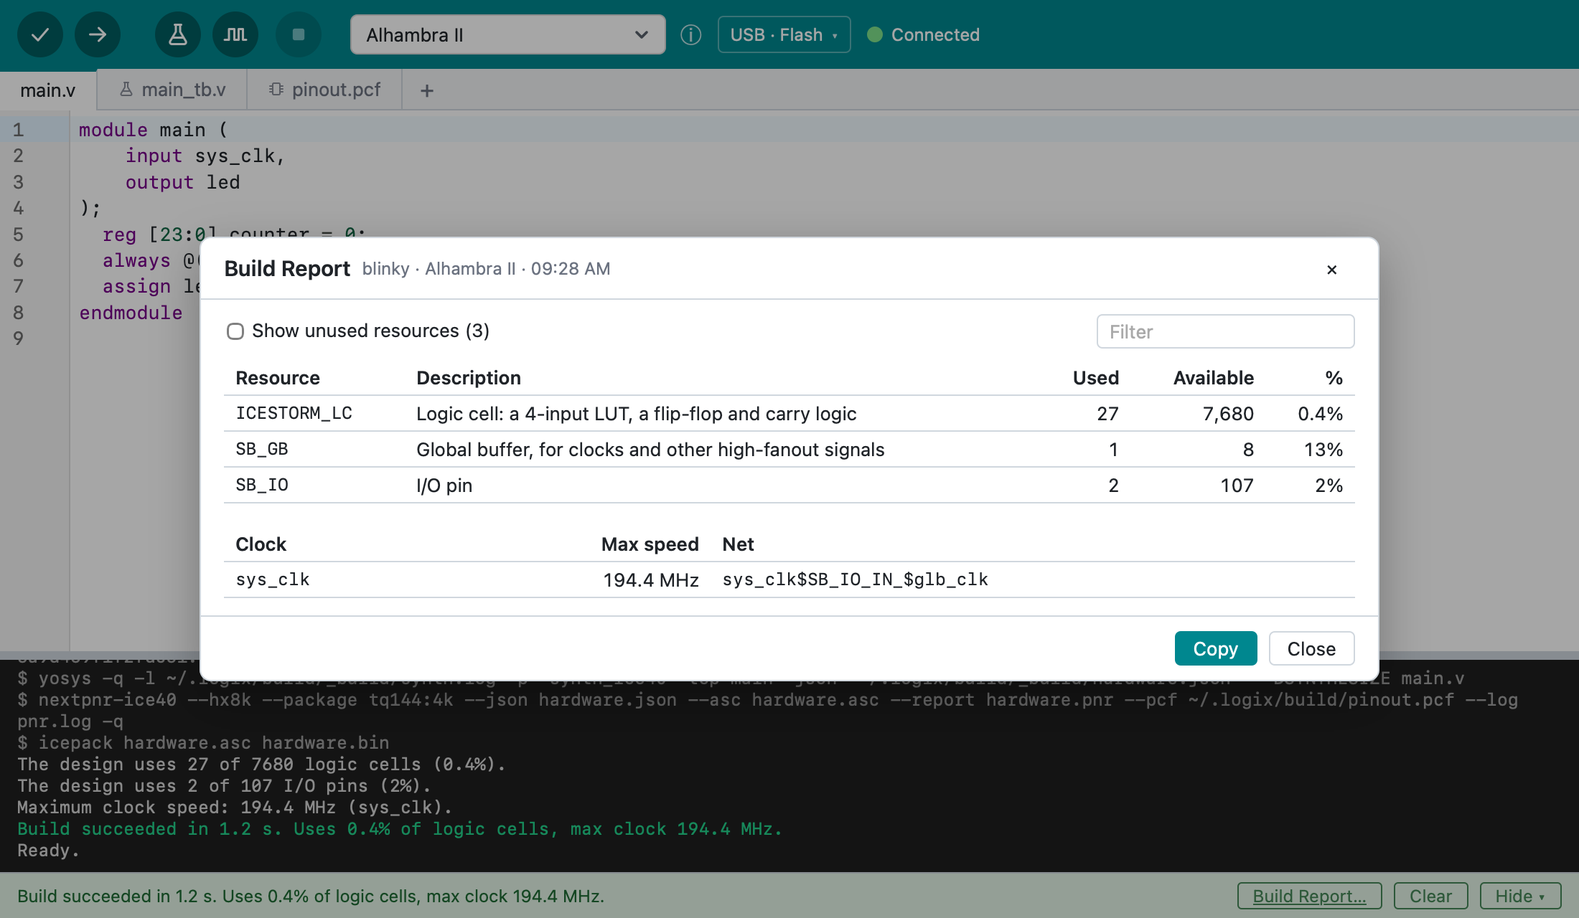
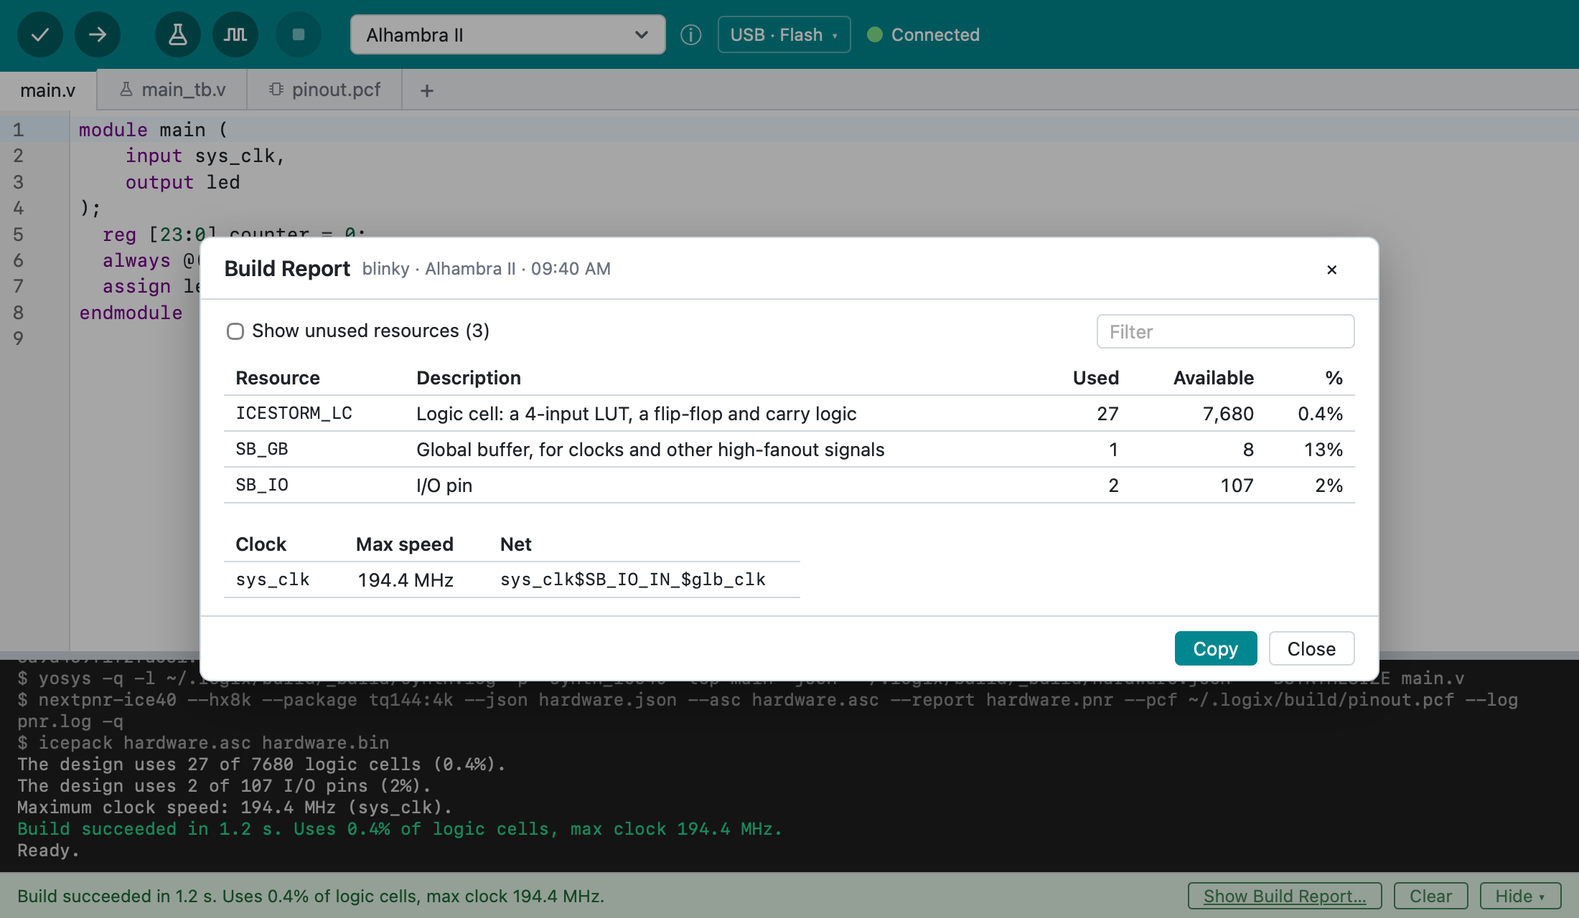
Show Build Report…: last attempt only, unused rows plain, 0% empty
A failed or stopped Verify or Upload clears the report, so the window
never shows an older build than the last attempt. The menu item and the
status bar link are "Show Build Report…". Unused resources aren't greyed
out and their share is empty; the clock table is only as wide as its
columns.

Changed region(s): [[0.3091, 0.5938, 0.6182, 0.6562], [0.2164, 0.5938, 0.2782, 0.6562], [0.7418, 0.9688, 0.8036, 1.0]]

diff --git a/ui/e2e/app.e2e.ts b/ui/e2e/app.e2e.ts
@@ -182,14 +182,14 @@ test("Build Report shows the used resources, all on request, and copies them", a
   const fake = () => page.evaluate(() => (window as unknown as { __fake: Fake }).__fake);
   await start(page);
   await chooseBoard(page);
-  // No build yet: Build Report… is greyed out.
+  // No build yet: Show Build Report… is greyed out.
   await expect.poll(async () => (await fake()).menuState?.buildReport).toBe(false);
   await page.getByTitle(/^Verify/).click();
   await expect(status(page)).toContainText("Uses 0.4% of logic cells, max clock 194.4 MHz.");
   // The output has the engine's report, as it words it.
   await expect(output(page)).toContainText("The design uses 2 of 107 I/O pins (2%).");
   await expect.poll(async () => (await fake()).menuState?.buildReport).toBe(true);
-  await page.getByRole("button", { name: "Build Report…" }).click();
+  await page.getByRole("button", { name: "Show Build Report…" }).click();
   const dialog = page.getByRole("dialog", { name: "Build Report" });
   const rows = dialog.getByRole("table", { name: "Resources" }).locator("tbody tr");
   // The toolchain's names, with the engine's descriptions; used ones only.
@@ -204,12 +204,21 @@ test("Build Report shows the used resources, all on request, and copies them", a
   await expect(rows.first()).toContainText("ICESTORM_RAM");
   await dialog.getByRole("button", { name: "Copy" }).click();
   await expect(dialog).toContainText("Copied.");
-  expect((await fake()).copiedText).toMatch(/^Build Report: .* · Alhambra II · .*\n\nResource +Description.*\nICESTORM_RAM +Block RAM, 4 Kbit +0 +32 +0%\n/s);
+  expect((await fake()).copiedText).toMatch(/^Build Report: .* · Alhambra II · .*\n\nResource +Description.*\nICESTORM_RAM +Block RAM, 4 Kbit +0 +32\n/s);
   await page.keyboard.press("Escape");
   await expect(dialog).toHaveCount(0);
   // Kept until the project changes; also from the menu, with unused shown.
   await menu(page, "build-report");
   await expect(dialog.getByLabel(/Show unused resources/)).toBeChecked();
+  // Unused rows have no share, rather than "0%".
+  await expect(rows.filter({ hasText: "ICESTORM_RAM" }).locator("td").last()).toHaveText("");
+  await page.keyboard.press("Escape");
+  // A failed build has no report: the last successful one's goes.
+  await typeAtStart(page, "oops\n");
+  await page.getByTitle(/^Verify/).click();
+  await expect(status(page)).toHaveText("Build failed.");
+  await expect(page.getByRole("button", { name: "Show Build Report…" })).toHaveCount(0);
+  await expect.poll(async () => (await fake()).menuState?.buildReport).toBe(false);
 });
 
 test("Show Project Folder on a project never saved offers Save As…, then shows the folder", async ({

diff --git a/ui/src/App.svelte b/ui/src/App.svelte
@@ -601,7 +601,7 @@
   let taskStep = $state<{ message: string; percent: number | null } | null>(
     null,
   );
-  /** The open project's last build report (Verify or Upload), for Build Report…. */
+  /** The open project's last build report (Verify or Upload), for Show Build Report…. */
   let buildReport = $state<{ report: BuildReport; title: string } | null>(null);
   let buildReportOpen = $state(false);
   /** The Build Report window's "Show unused resources", kept between builds. */
@@ -1094,8 +1094,15 @@
       taskStep = null;
       if (project !== p) return; // Another project was opened meanwhile.
       if (task === "test") log("", ...testbenchLines(outcome));
-      if (outcome.ok && outcome.report) {
-        if (outcome.report.text) log("", ...outcome.report.text.split("\n"));
+      // The report is always the last build's: a failed or stopped build
+      // has none, so the previous one's goes (Upload's report is its
+      // build's, even when programming fails).
+      if (task === "build" || task === "upload") {
+        buildReport = null;
+        buildReportOpen = false;
+      }
+      if (outcome.report) {
+        if (outcome.ok && outcome.report.text) log("", ...outcome.report.text.split("\n"));
         const when = new Date().toLocaleTimeString([], { hour: "2-digit", minute: "2-digit" });
         const boardName = boards.find((b) => b.id === board)?.description ?? board;
         buildReport = { report: outcome.report, title: `${p.name} · ${boardName} · ${when}` };
@@ -2338,7 +2345,7 @@
         {/if}
         <span class="status-text" role="status">{statusText}</span>
         {#if status?.report && buildReport && !isBusy && !activity}
-          <button class="status-link" onclick={() => (buildReportOpen = true)}>Build Report…</button>
+          <button class="status-link" onclick={() => (buildReportOpen = true)}>Show Build Report…</button>
         {/if}
         {#if running && taskStep && !activity}
           <span class="setup-detail"

diff --git a/ui/src/lib/BuildReport.svelte b/ui/src/lib/BuildReport.svelte
@@ -1,5 +1,5 @@
 <!--
-  Project > Build Report… (also the status bar's Build Report link after
+  Project > Show Build Report… (also the status bar's Build Report link after
   Verify or Upload): the last build's resources and clocks, as Logix
   Engine's `build` gives them (its recipe "Show problems in the editor",
   docs/tool-api.md). Each resource by the toolchain's own name, which
@@ -94,7 +94,7 @@
         </thead>
         <tbody>
           {#each rows as r (r.name)}
-            <tr class:unused={r.used === 0}>
+            <tr>
               <td class="name">{r.name}</td>
               <td>{r.description ?? ""}</td>
               <td class="num">{r.used.toLocaleString()}</td>
@@ -228,7 +228,12 @@
     user-select: text;
   }
   .clocks {
+    width: auto;
     margin-top: 16px;
+  }
+  .clocks td,
+  .clocks th {
+    padding-right: 24px;
   }
   th,
   td {
@@ -253,9 +258,6 @@
     font-family: ui-monospace, Menlo, Consolas, monospace;
     font-size: 12px;
     white-space: nowrap;
-  }
-  .unused {
-    color: var(--muted);
   }
   .invalid {
     color: var(--muted);

diff --git a/ui/src/lib/buildReport.ts b/ui/src/lib/buildReport.ts
@@ -33,11 +33,13 @@ export function unusedCount(report: BuildReport): number {
 }
 
 /**
- * A share for the table: "n/a" when the engine found nextpnr's numbers
- * invalid, "<0.1%" for something used but less than that, one decimal under
- * 1%, whole numbers otherwise.
+ * A share for the table: empty for an unused resource (so the used ones
+ * stand out), "n/a" when the engine found nextpnr's numbers invalid,
+ * "<0.1%" for something used but less than that, one decimal under 1%,
+ * whole numbers otherwise.
  */
 export function percentText(r: ReportResource): string {
+  if (r.used === 0) return "";
   if (r.percent === null) return "n/a";
   if (r.used > 0 && r.percent < 0.1) return "<0.1%";
   if (r.percent > 0 && r.percent < 1) return `${r.percent.toFixed(1)}%`;

diff --git a/ui/src/lib/buildReport.test.ts b/ui/src/lib/buildReport.test.ts
@@ -35,7 +35,8 @@ describe("build report window", () => {
     const r = (used: number, percent: number | null) => ({
       name: "X", description: null, used, available: 100, percent,
     });
-    expect(percentText(r(0, 0))).toBe("0%");
+    expect(percentText(r(0, 0))).toBe("");
+    expect(percentText(r(0, null))).toBe("");
     expect(percentText(r(1, 0))).toBe("<0.1%");
     expect(percentText(r(1, 0.4))).toBe("0.4%");
     expect(percentText(r(1, 33.3))).toBe("33%");

diff --git a/ui/e2e/docs.shots.ts b/ui/e2e/docs.shots.ts
@@ -72,7 +72,7 @@ test("main window after Verify", async ({ page }) => {
 test("the build report", async ({ page }) => {
   await startWithBoard(page);
   await verify(page, /^Build succeeded/);
-  await page.getByRole("button", { name: "Build Report…" }).click();
+  await page.getByRole("button", { name: "Show Build Report…" }).click();
   await expect(page.getByRole("dialog", { name: "Build Report" })).toBeVisible();
   await shot(page, "build-report");
 });

diff --git a/ui/src/lib/backend.ts b/ui/src/lib/backend.ts
@@ -409,7 +409,7 @@ export interface MenuState {
   simulate: boolean;
   /** The open tab is a testbench (the editor menu's Run This Test, Simulate). */
   testbenchOpen: boolean;
-  /** The project has a build report (Build Report…). */
+  /** The project has a build report (Show Build Report…). */
   buildReport: boolean;
   /** One Tools submenu per dimension of the board's variants. */
   variantMenus: VariantMenu[];

diff --git a/src-tauri/src/menu.rs b/src-tauri/src/menu.rs
@@ -31,7 +31,7 @@ pub const SIMULATE: &str = "simulate";
 pub const SHOW_FOLDER: &str = "show-folder";
 pub const COPY_PATH: &str = "copy-path";
 pub const SHOW_DIAGRAM: &str = "show-diagram";
-/// Project > Build Report…: the last build's resources and clocks, from the
+/// Project > Show Build Report…: the last build's resources and clocks, from the
 /// engine's report (`BuildReport.svelte`).
 pub const BUILD_REPORT: &str = "build-report";
 pub const DEVICES: &str = "devices";
@@ -129,7 +129,7 @@ pub struct MenuState {
     /// This Test and Simulate (hidden otherwise, to keep it short).
     pub testbench_open: bool,
     /// The project has a build report: Verify or Upload built it since it
-    /// was opened (Build Report…).
+    /// was opened (Show Build Report…).
     #[serde(default)]
     pub build_report: bool,
     /// One Tools submenu per dimension of the current board's variants,
@@ -297,7 +297,7 @@ pub fn build<R: Runtime>(app: &AppHandle<R>) -> tauri::Result<Menu<R>> {
         .separator()
         .item(&item(SHOW_DIAGRAM, "Show Diagram", "CmdOrCtrl+Shift+D")?)
         .item(
-            &MenuItemBuilder::with_id(BUILD_REPORT, "Build Report…")
+            &MenuItemBuilder::with_id(BUILD_REPORT, "Show Build Report…")
                 .enabled(is_enabled(BUILD_REPORT, &state))
                 .build(app)?,
         )

diff --git a/CLAUDE.md b/CLAUDE.md
@@ -148,7 +148,7 @@ Don't run `npm run tauri build` locally; installers come from the GitHub workflo
 - **Opening an example** gives an unsaved project (`dir: null`) with `templateDir` set to the folder it was written to (`~/.logix/example/`, replaced by the next example) and the board set. The first save asks for a location and copies the example's other files (e.g. `main_tb.gtkw`) from `templateDir`; its project file and hidden files are skipped. UI: `ui/src/lib/ExamplesDialog.svelte`, with search and grouping in `ui/src/lib/examples.ts`.
 - **Verify / Upload** (toolbar, Cmd+R / Cmd+U, Project menu): `run_task` builds from the project's **in-memory** files (unsaved edits included) in `~/.logix/build/`. `src-tauri/src/build_dir.rs` (plain Rust, tested) fills that folder with the files and the other contents of the project folder (or example template), subfolders included (the engine builds only the files Logix lists), except nested projects (folders with a project file, `project::is_project_dir`; `CopyMode::Build`). The folder is reused for the same project (key = project folder) so `_build/` (the engine's build folder) speeds up repeated builds; another project starts from an empty folder. Every task runs on the engine (`engine::run_task`, `engine/task.rs`) with that folder as `source_folder`, `_build` as `build_folder` (it needs "build" in one of its last two names; a `logix` subfolder under it was dropped as unneeded, the user's decision), top module `main`, the project's `.v`/`.sv` files minus testbenches as `source_files` (include files are found by the engine), and the pin file as `constraint_file`: the first one of the board's kind (`Board.pin_extension`, from the engine's `get_catalog` families: `.pcf` iCE40, `.lpf` ECP5, `.cst` Gowin, `.xdc` Xilinx 7-series, any case; `build_dir::constraint_file`), else the first pin file of any kind. The engine refuses a pin file of another family's kind (each family's place-and-route tool reads only its own format and takes the format from its option, not the file name, so before this check a PCF renamed to `.lpf` built on iCE40 as if nothing were wrong); the engine says so plainly ("The pin file pinout.lpf is the wrong kind for the Alhambra II: iCE40 FPGAs use .pcf pin files."); no fix is suggested, since each family's pin file format is different and a rename is rarely all it takes (the user's decision, 2026-11-07: an engine action `rename_constraint_file` was dropped for this); the IDE shows the message, as for every engine error (before 2026-11-07 the IDE rewrote both messages with regular expressions, `friendly`). No pin file: the IDE's own error `NO_CONSTRAINT_FILE`, worded for people. A board that isn't in the engine's catalog is refused with a plain message before anything runs. Only one task runs at a time (`AppState.task`).
 - **Verify = lint + build**: for `Task::Build`, the engine's `lint` runs first (unless "Show lint warnings on Verify" is off) for warnings and clearer errors. Lint fails for warnings too, so its result never stops the build; only `build` decides success. Upload is `build` then `program_board` (not attempted if the build failed). Repeated problems (lint and build flagging the same line) are dropped by `dedup`, keeping lint's. The engine's diagnostics map one to one (`info` shows as a warning); a failed step without an located error adds its message, plus the action's description (e.g. "No Alhambra II is connected. Connect the Alhambra II by USB, then retry."), as an error without a location, and its action code goes to `TaskOutcome.action`. The console shows the engine's live output: command lines dimmed with `$`, error lines red, warnings yellow, and the message of a failed step in red (not for design errors, whose message repeats the tool's line, and not when it is the task's first error, which the closing line "Build failed: …" shows: printed both ways, it read twice, the user's report, 2026-11-07). The closing line (the status line, also the output's last line) repeats the first error only when it has no location: a located one is the tool's own line just above, so it reads "Build failed." ("The testbench failed. GTKWave shows the signals." for a failing testbench; `outcomeText`; the user's choice, 2026-11-07). A line the tool prints over (the engine's `redraw: true` in `logix/output`, such as each state of a progress bar) is shown at once and replaced in place by the same tool's next line, so progress stays on one line and updates as in a terminal (iceprog's last address line is replaced by its `done.`); any other line in between keeps it (`TaskEvent::Line`'s `tool` and `redraw`, from `Console` in `engine/task.rs`; `Redraws` in `ui/src/lib/redraw.ts`). The IDE log file gets only the lines that stay. A first version held each redraw line until the next one arrived, so the line being redrawn was never on screen. Before the engine marked redraws, the IDE guessed them by the pattern `label [bar] n%`, which missed iceprog's `addr 0x… n%` lines (hundreds of lines per upload). The engine's phases ("Synthesizing", "Placing and routing", "Writing flash" with its percentage) go to the status bar as `TaskEvent::Progress`. After success, the report is the engine's (decided 2026-11-10: the engine words it once for every frontend): the output gets `build`'s `report` as is ("The design uses 27 of 7680 logic cells (0.4%)." and "Maximum clock speed: 194.4 MHz (sys_clk).", as Arduino's "Sketch uses …"), and the status bar its `report_summary` after the IDE's own "Build succeeded in 2.4 s." The IDE keeps no FPGA family names, descriptions or wording of its own; clock names come from `clocks_summary` (Xilinx clocks get the name synthesis gave the net, such as `o100`, as in Apio, until the openxc7 tools give the signal's name).
-- **Build Report** (Project > Build Report…, and the status bar's "Build Report…" link after a build's result; the user's design, 2026-11-10): `ui/src/lib/BuildReport.svelte`, a window with the last build of the open project (kept until another project opens or it closes; title: project · board · time). A table of `build`'s `resources`: the toolchain's name first (what people search for and quote), the engine's description, used, available and `percent` ("n/a" when the engine found nextpnr's numbers invalid, `null`; "<0.1%" for something used but less), the used ones by default with "Show unused resources (n)" for the rest (most are unused on Xilinx FPGAs; kept between builds), and a filter on name and description. Then the clocks: name, maximum speed, net. Copy gives the rows shown and the clocks as text columns (`reportText` in `ui/src/lib/buildReport.ts`, with `reportRows`, `percentText`).
+- **Build Report** (Project > Show Build Report…, and the status bar's "Show Build Report…" link after a build's result; the user's design, 2026-11-10): `ui/src/lib/BuildReport.svelte`, a window with the last build of the open project (kept until another project opens or it closes; a failed or stopped Verify or Upload clears it, so the window never shows an older build than the last attempt; Upload's report is its build's, even when programming fails; title: project · board · time). A table of `build`'s `resources`: the toolchain's name first (what people search for and quote), the engine's description, used, available and `percent` (empty for an unused resource; "n/a" when the engine found nextpnr's numbers invalid, `null`; "<0.1%" for something used but less), unused rows not greyed out (the user's choice, 2026-11-10), the used ones by default with "Show unused resources (n)" for the rest (most are unused on Xilinx FPGAs; kept between builds), and a filter on name and description. Then the clocks: name, maximum speed, net. Copy gives the rows shown and the clocks as text columns (`reportText` in `ui/src/lib/buildReport.ts`, with `reportRows`, `percentText`).
 - **Run Tests / Simulate** (toolbar flask and waveform icons, Shift+Cmd+T / Option+Cmd+T, Project menu, right-click on a testbench tab): `Task::Test` runs the engine's `test` with the chosen testbench or all `*_tb.v`/`*_tb.sv` as `testbench_files` (the engine runs every testbench, each stopped at its first failure, with a 10-minute default limit); each result becomes a `TestbenchResult`, its diagnostics (`$error`, `$fatal`, assertion failure lines, at file, line and time) are marked, and an `ending` of `timeout`, `sim_time_limit` or `no_finish` adds a plain note (`ending_note`). `Task::Simulate` runs the engine's `simulate` on one testbench with `layout_file` `<testbench stem>.gtkw` next to it: the engine runs it to the end, writes a default layout there unless the user saved one (zoomed around the first failure), and starts GTKWave detached, failing or not. A failing simulation also returns its `TestbenchResult`, so the status says "The testbench failed (GTKWave shows the signals): …" (`outcomeText`). Simulate uses the open testbench tab or the project's only testbench. `run_task` only accepts project files matching `project::is_testbench`. Testbenches follow the engine's rules (report failures with `$error`, never call `$dumpfile`; see the engine's `docs/tool-api.md`, Writing testbenches). New `*_tb.v` files start from a testbench template (`starterText` in `workingProject.ts`).
 - **Auto Format** (Tools menu, Cmd+T, as in the Arduino IDE; Cmd+T was taken from Run Tests for this): formats the open Verilog/SystemVerilog file with the engine's `format` (Verible; `engine/format.rs`). `format_file` writes the text into a one-file scratch folder (`build_dir::prepare_single`, `~/.logix/format/`), formats it there, shows Verible's command line in the console, and returns the result. The editor applies it as one undoable edit (`Editor.replaceText`) and leaves the file unsaved. Messages match Arduino's: "Auto Format finished." / "No changes necessary for Auto Format." Verible's errors come back as the engine's diagnostics and are marked like build errors.
 - **Matching is the engine's** (the engine's `docs/requirements.md`, Device selection): `list_devices` gives each device an opaque, short-lived `id` and the boards it may be, each variant with a match level, `strong`, `possible` or `weak`: what the match means for the user, never its cause. The engine's criteria are internal and change without notice (the user's rule, 2026-11-05), so the IDE only shows and compares levels (`MatchLevel` in `engine/devices.rs`; unknown values count as weak) and never says why a device matched. The IDE has no USB filter logic of its own (it used to, and got the engine's rules slightly wrong, e.g. ignoring `serial_regex`). `engine/devices.rs` reads it (`UsbDevice` with `boards: [{ board, level }]`, the strongest of a board's variants, and `buildMatch`; `DeviceList` with `unreachable`, devices that need a driver or permissions, with the engine's fix).
@@ -187,7 +187,7 @@ macOS shortcuts below; elsewhere Ctrl replaces ⌘. The same as the Arduino IDE 
 - **File** ("Project" in the names says the scope; New File acts on one file): New Project (⌘N), Examples… (⇧⌘E; right below New Project so it's easy to find, as the Arduino IDE's File > Examples; the user's decision, 2026-11-10, replacing a New Project ▸ submenu), Open Project… (⌘O), Open Recent ▸ (up to 10 folders, "No Recent Projects" when empty, Clear Menu), Close Project (⌘W), New File… (⇧⌘N), Save Project (⌘S), Save Project As… (⇧⌘S), Close Window (⇧⌘W). Ids: `new`, `examples`, `open`, `close-project`, `new-file`, `save`, `save-as`; Close Window is `close`. ⌘W closes the project rather than the window: Logix has one window, so closing the document is the useful one (decided).
 - **Edit**: system Undo, Redo, Cut, Copy, Paste (needed for those shortcuts to work in the web view), Select All (⌘A, custom), Comment/Uncomment (⌘/), Go to Definition (F12).
 - **View**: Toggle Output (⌘J).
-- **Project**: Verify (⌘R), Upload (⌘U), Run Tests (⇧⌘T), Simulate (⌥⌘T), Show Diagram (⇧⌘D), Build Report… (no shortcut; greyed out until Verify or Upload built the open project), Stop (⌘.), Show Project Folder (⌥⌘K), Copy Project Folder Path.
+- **Project**: Verify (⌘R), Upload (⌘U), Run Tests (⇧⌘T), Simulate (⌥⌘T), Show Diagram (⇧⌘D), Show Build Report… (no shortcut; greyed out until Verify or Upload built the open project), Stop (⌘.), Show Project Folder (⌥⌘K), Copy Project Folder Path.
 - **Tools**: Auto Format (⌘T), Board Explorer…, Connected Devices….
 - **Help**: Logix IDE Documentation, Quick Start, Testbenches and Simulation, Troubleshooting, Keyboard Shortcuts (the docs pages), Logix IDE Website (the product page), Logix IDE on GitHub, Report a Problem (a new GitHub issue whose text asks what happened and for `logix.log`), System Info…, Show Log Folder.
 - **System Info…** (Help; the user's request, 2026-11-08): a dialog with a plain text report for bug reports and a Copy button, as the engine's recipe "Show system info" (docs/tool-api.md) says, so every frontend shows the same report: the IDE's lines (name and version, operating system with its version, the IDE's log file, the engine used: the pinned release or the local binary from `LOGIX_DEV_ENGINE_BINARY`), a blank line, then the engine's `report` from `get_engine_info`, as is, fetched when the dialog opens (during setup: "not running"). `src-tauri/src/system_info.rs` (tested), the `system_info` and `copy_text` commands (the clipboard through `pbcopy`, as Copy Project Folder Path), `ui/src/lib/SystemInfoDialog.svelte`. macOS's About box shows only the name, version and license (it ignores Tauri's `comments`, so the engine release line there shows only on other platforms).

diff --git a/docs/using-logix.md b/docs/using-logix.md
@@ -180,8 +180,8 @@ button ![Stop button](images/icon-stop.png){ .toolbar-icon } stops a build or up
 
 ### Build Report
 
-For every resource the design uses, click **Build Report…** in the status
-bar after a build, or choose **Project > Build Report…**. Each resource has
+For every resource the design uses, click **Show Build Report…** in the status
+bar after a build, or choose **Project > Show Build Report…**. Each resource has
 the name the FPGA tools use, such as `ICESTORM_LC` or `SLICE_LUTX` (the
 name to search for), a short description, how many the design uses and
 how many the FPGA has. The clocks follow, with their maximum speeds.

diff --git a/docs/tour.md b/docs/tour.md
@@ -74,7 +74,7 @@ changes your files.
 
 The **Verify** button ![Verify button](images/icon-verify.png){ .toolbar-icon } checks the design for common mistakes, builds it for your board,
 and reports how much of the FPGA it uses and how fast it can run
-(**Build Report…** in the status bar has every resource). A mistake
+(**Show Build Report…** in the status bar has every resource). A mistake
 is marked on its line; hover over the mark to read it, or click the
 `file:line` link in the output to jump there.
 
